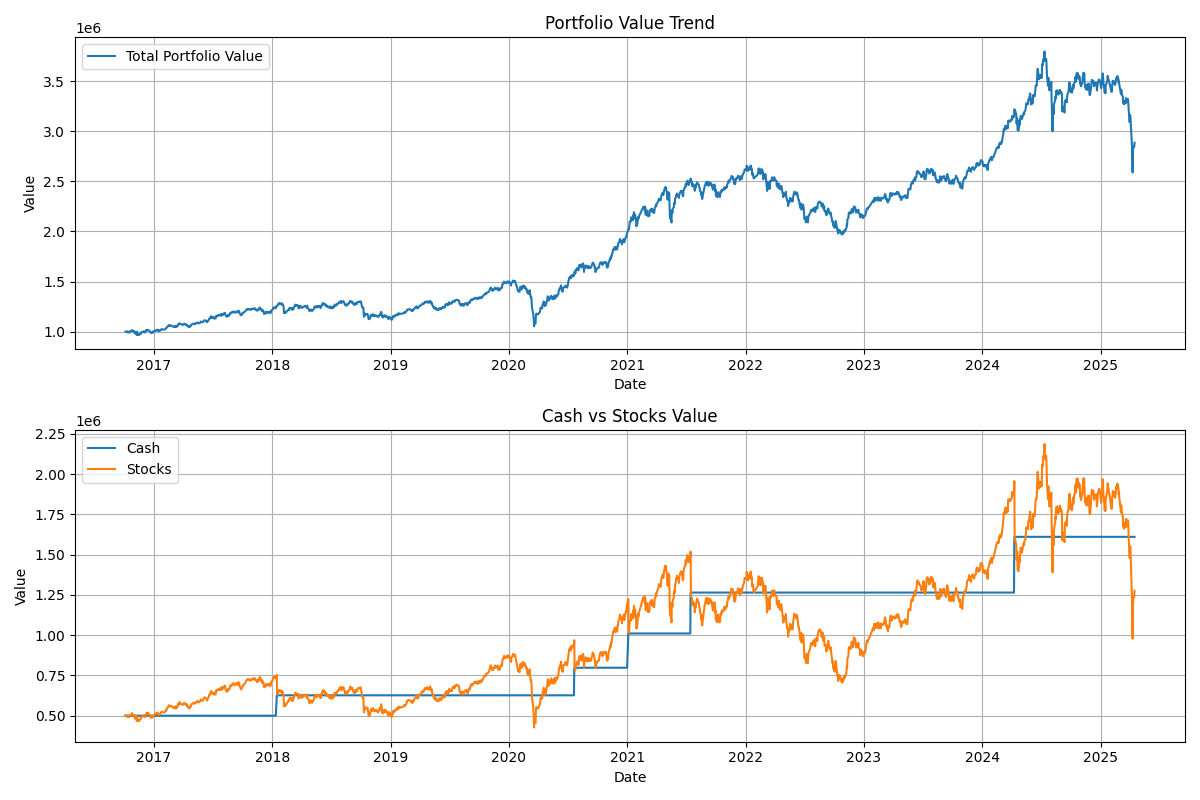
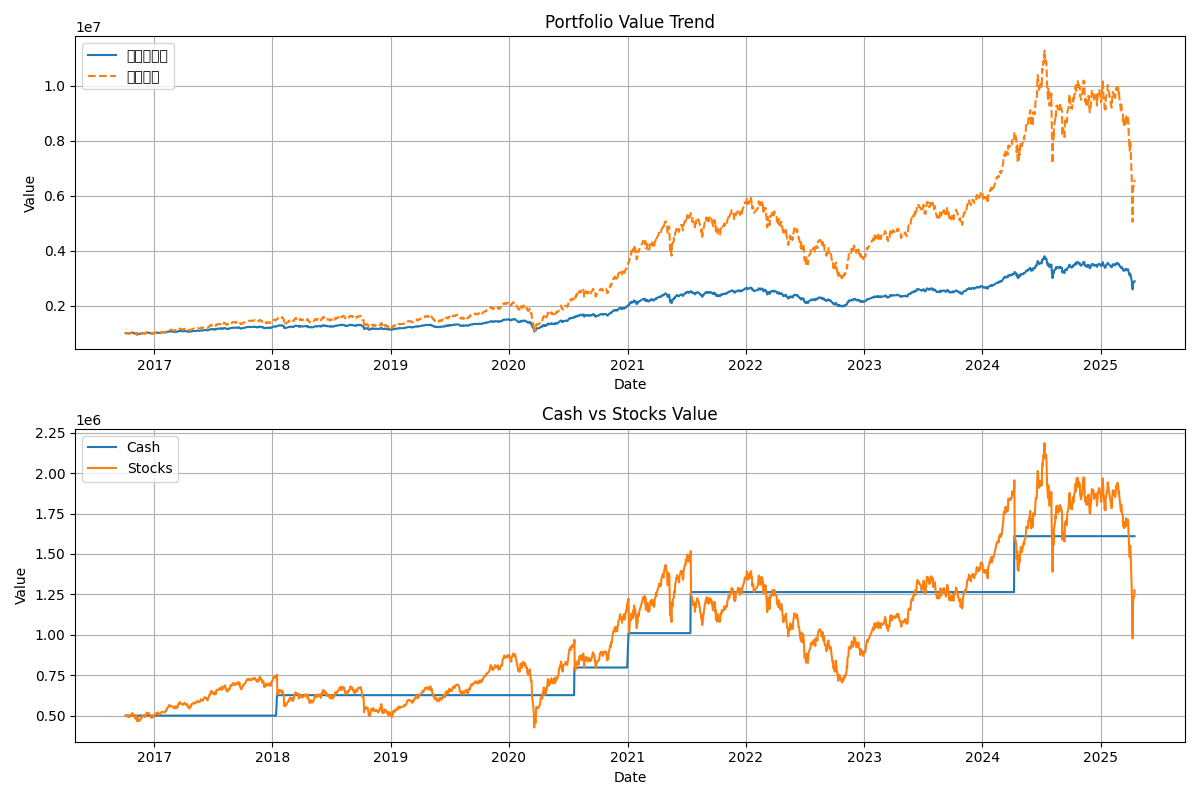
add the ROA with Buy and Hold

diff --git a/strategy/rebalance_strategy.py b/strategy/rebalance_strategy.py
@@ -95,9 +95,14 @@ class RebalanceStrategy:
         portfolio_df = pd.DataFrame(self.portfolio_value)
         portfolio_df.set_index('date', inplace=True)
         
-        # 計算報酬率
+        # 計算再平衡策略的報酬率
         portfolio_df['returns'] = portfolio_df['total_value'].pct_change()
         total_return = (portfolio_df['total_value'].iloc[-1] / self.initial_capital - 1) * 100
+        
+        # 計算全額投資的報酬率
+        initial_price = self.df['Close'].iloc[0]
+        final_price = self.df['Close'].iloc[-1]
+        all_in_return = (final_price / initial_price - 1) * 100
         
         # 計算最大回撤
         portfolio_df['cummax'] = portfolio_df['total_value'].cummax()
@@ -112,6 +117,7 @@ class RebalanceStrategy:
         days = (portfolio_df.index[-1] - portfolio_df.index[0]).days
         years = days / 365
         annual_return = ((1 + total_return/100) ** (1/years) - 1) * 100
+        all_in_annual_return = ((1 + all_in_return/100) ** (1/years) - 1) * 100
         
         # 計算夏普比率
         risk_free_rate = 0.01  # 假設無風險利率1%
@@ -123,7 +129,9 @@ class RebalanceStrategy:
             '年化報酬率': f"{annual_return:.2f}%",
             '最大回撤': f"{max_drawdown:.2f}%",
             '交易次數': num_trades,
-            '夏普比率': f"{sharpe_ratio:.2f}"
+            '夏普比率': f"{sharpe_ratio:.2f}",
+            '全額投資總報酬率': f"{all_in_return:.2f}%",
+            '全額投資年化報酬率': f"{all_in_annual_return:.2f}%"
         }
     
     def get_trade_details(self):
@@ -141,11 +149,16 @@ class RebalanceStrategy:
         portfolio_df = pd.DataFrame(self.portfolio_value)
         portfolio_df.set_index('date', inplace=True)
         
+        # 計算全額投資的價值曲線
+        initial_price = self.df['Close'].iloc[0]
+        all_in_value = self.initial_capital * (self.df['Close'] / initial_price)
+        
         plt.figure(figsize=(12, 8))
         
         # 繪製總資產價值
         plt.subplot(2, 1, 1)
-        plt.plot(portfolio_df.index, portfolio_df['total_value'], label='Total Portfolio Value')
+        plt.plot(portfolio_df.index, portfolio_df['total_value'], label='再平衡策略')
+        plt.plot(portfolio_df.index, all_in_value, label='全額投資', linestyle='--')
         plt.title('Portfolio Value Trend')
         plt.xlabel('Date')
         plt.ylabel('Value')
